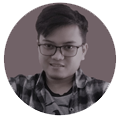
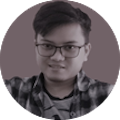
Update profile img

Changed region(s): [[0.0, 0.0, 1.0, 1.0], [0.425, 0.475, 0.55, 0.575], [0.4, 0.525, 0.45, 0.575]]

diff --git a/index.html b/index.html
@@ -96,7 +96,15 @@
             </div>
             <div class="base">
                 <div class="card">
-                    <img src="assets/img/ricky.png" alt="Ricky Bayu Putra" title="Ricky Bayu Putra">
+                    <img src="assets/img/saddam.png" alt="Saddam Husein" title="Saddam Husein">
+                    <h3>Saddam Husein</h3>
+                    <p class="about">Fullstack Developer</p>
+                    
+                </div>
+            </div>
+            <div class="base">
+                <div class="card">
+                    <img src="assets/img/roso.png" alt="Ricky Bayu Putra" title="Ricky Bayu Putra">
                     <h3>Ricky Bayu Putra </h3>
                     <p class="about">Fullstack Developer</p>
                     
@@ -105,15 +113,7 @@
             <div class="base">
                 <div class="card">
                     <img src="assets/img/ricky.png" alt="Ricky Bayu Putra" title="Ricky Bayu Putra">
-                    <h3>Ricky Bayu Putra </h3>
-                    <p class="about">Fullstack Developer</p>
-                    
-                </div>
-            </div>
-            <div class="base">
-                <div class="card">
-                    <img src="assets/img/ricky.png" alt="Ricky Bayu Putra" title="Ricky Bayu Putra">
-                    <h3>Ricky Bayu Putra </h3>
+                    <h3>Roso Sasongko</h3>
                     <p class="about">Fullstack Developer</p>
                     
                 </div>

diff --git a/assets/css/style.css b/assets/css/style.css
@@ -290,7 +290,7 @@ header .header-right a:hover {
 }
   
 #profile_wrapper img {
-    width: 80%;
+    width: 120px;
     max-width: 150px;
     border-radius: 50%;
     filter: grayscale(100%);
